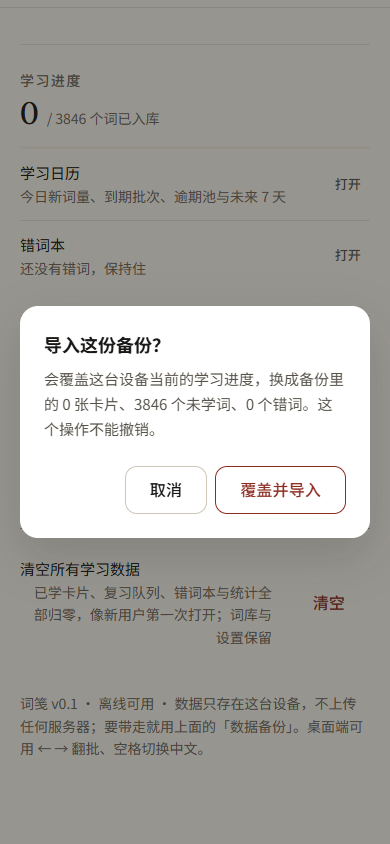
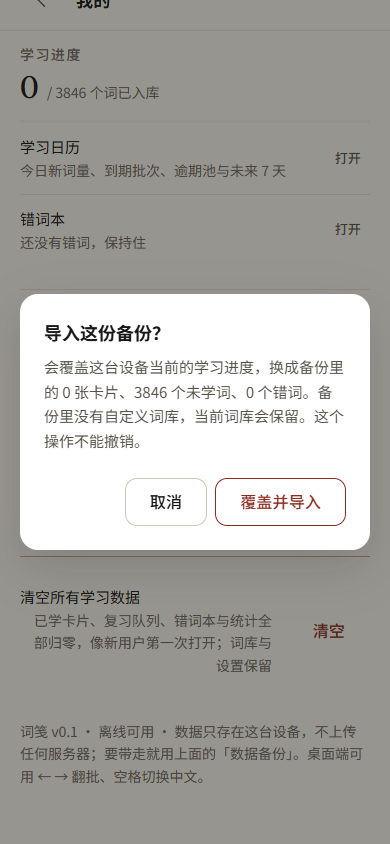
feat(backup): 备份带上自定义词库（custom 与 profile 同键，之前被丢掉了）
- 查清存储位置：custom 就在 cijian.v1 里（Store.custom），和 profile 同键不同字段；
  379c7f6 只取了 profile，等于导出了半份备份
- schema：BackupPayload 加可选 custom 字段，**version 不 bump**——旧 v1 备份没有该字段，
  读取按 null 处理，向后兼容；导入语义写死三条：备份有/本机没有 → 写入；
  本机有/备份没有 → 保留本机不删；两边都有 → 用备份覆盖
- 校验：custom 结构进 validateBackupText（对象 / 词表非空 / 每条 w、ph、m），坏结构原子拒绝
- 确认框按「备份里有没有词库」分两句文案；导出提示带自定义词数
- 体积实测：200 词词库的备份约 41 KB（含调度数据），不设上限

证据：
- test:backup 49 条断言全过（新增 14 条：导出带上、7 种坏结构、3 种导入语义、体积）
- tsc 0 错、test:scheduler 全过、vite build 过
- E2E：导出含 2 词词库（文件 67.9 KB）→ 确认框写明自定义词库 → 先删掉本机词库再导入，
  label/词数都恢复、groups 7→0、导入闸门已清、双键 SHA256 一致
- UI 390/paper 复查：值文案收成单行 + 一句说明，按钮 62×44 / 91×44、对比度 4.99、无横向滚动

diff --git a/scripts/audit-backup.js b/scripts/audit-backup.js
@@ -41,7 +41,28 @@ async (page) => {
     const hasSection = await page.evaluate(() => [...document.querySelectorAll('.section__title')].some((n) => n.textContent.trim() === '数据备份'));
     if (!hasSection) problems.push('「我的」页没有「数据备份」区块');
 
-    // ---- 2. 导出并校验下载内容 ----
+    // ---- 2. 先塞一份自定义词库，验证「词库也进备份」 ----
+    // 写在同源非 App 页（App 页 pagehide 会用内存态回写）
+    await page.goto(BASE + '/icon.svg', { waitUntil: 'domcontentloaded' });
+    await page.evaluate(() => {
+      const raw = JSON.parse(localStorage.getItem('cijian.v1') || '{}');
+      raw.custom = {
+        lvl: 'custom',
+        label: '我的专业词',
+        words: [
+          { w: 'alpha', ph: '/ˈælfə/', m: ['n. 阿尔法'] },
+          { w: 'beta', ph: '/ˈbiːtə/', m: ['n. 贝塔'] },
+        ],
+      };
+      localStorage.setItem('cijian.v1', JSON.stringify(raw));
+    });
+    await page.goto(BASE + '/', { waitUntil: 'domcontentloaded' });
+    await page.waitForSelector('button[aria-label="打开我的"]', { timeout: 15000 });
+    await page.click('button[aria-label="打开我的"]');
+    await page.waitForSelector('.section__title', { timeout: 10000 });
+    await page.waitForTimeout(300);
+
+    // ---- 3. 导出并校验下载内容 ----
     const [download] = await Promise.all([
       page.waitForEvent('download', { timeout: 15000 }),
       page.getByRole('button', { name: '导出', exact: true }).click(),
@@ -55,6 +76,9 @@ async (page) => {
       app: exported.app,
       hasScheduler: Boolean(exported.scheduler && exported.scheduler.cards),
       hasProfile: Boolean(exported.profile && typeof exported.profile.skin === 'string'),
+      customWords: Array.isArray(exported.custom?.words) ? exported.custom.words.length : 0,
+      customLabel: exported.custom?.label ?? null,
+      bytes: Buffer.byteLength(exportedText, 'utf8'),
       cards: Object.keys(exported.scheduler?.cards ?? {}).length,
       unlearned: (exported.scheduler?.unlearned ?? []).length,
       filename: download.suggestedFilename(),
@@ -63,19 +87,23 @@ async (page) => {
     if (exportChecks.app !== 'cijian') problems.push(`导出 app=${exportChecks.app}`);
     if (!exportChecks.hasScheduler) problems.push('导出里没有 scheduler');
     if (!exportChecks.hasProfile) problems.push('导出里没有 profile');
+    if (exportChecks.customWords !== 2) problems.push(`导出里自定义词库有 ${exportChecks.customWords} 个词，期望 2`);
     if (!/^cijian-backup-\d{4}-\d{2}-\d{2}\.json$/.test(exportChecks.filename)) problems.push(`文件名异常：${exportChecks.filename}`);
     const noteText = await page.evaluate(() => document.querySelector('[role="status"]')?.textContent?.trim() ?? null);
     if (!noteText || !noteText.includes('已导出')) problems.push('导出后没有成功提示');
+    if (noteText && !noteText.includes('自定义词')) problems.push('导出提示没提到自定义词');
 
-    // ---- 3. 改成本地另一份状态，为「覆盖是否真的发生」做对照 ----
+    // ---- 4. 改成本地另一份状态（并删掉词库），为「覆盖是否真的发生」做对照 ----
     // 注意：unlearned 每次启动都会被 seed() 重置，不能当对照；用 immediate.stats.groups。
-    // 必须先在**同源非 App 页**写 storage：App 页 pagehide 会拿内存态回写，直接写在刷新瞬间会被盖掉。
     await page.goto(BASE + '/icon.svg', { waitUntil: 'domcontentloaded' });
     await page.evaluate(() => {
       const raw = JSON.parse(localStorage.getItem('cijian.scheduler.v1') || '{}');
       raw.immediate = raw.immediate || { pendingCount: 0, pendingWords: [], active: null, stats: { groups: 0, cards: 0, loops: 0, skipped: 0 }, lastAvgLoops: null };
       raw.immediate.stats.groups = 7;
       localStorage.setItem('cijian.scheduler.v1', JSON.stringify(raw));
+      const store = JSON.parse(localStorage.getItem('cijian.v1') || '{}');
+      delete store.custom;
+      localStorage.setItem('cijian.v1', JSON.stringify(store));
     });
     await page.goto(BASE + '/', { waitUntil: 'domcontentloaded' });
     await page.waitForSelector('button[aria-label="打开我的"]', { timeout: 15000 });
@@ -107,6 +135,7 @@ async (page) => {
     const dialogText = await page.evaluate(() => document.querySelector('.dialog')?.textContent ?? '');
     const schedulerWhileDialog = await page.evaluate(() => localStorage.getItem('cijian.scheduler.v1'));
     if (!dialogText.includes('覆盖')) problems.push('确认框没说要覆盖');
+    if (!dialogText.includes('自定义词库')) problems.push('确认框没交代自定义词库的处置');
     if (schedulerWhileDialog !== schedulerBeforeGood) problems.push('确认前就写了数据（破坏性操作必须后写）');
 
     await Promise.all([
@@ -117,10 +146,18 @@ async (page) => {
     const afterImport = await page.evaluate(() => {
       const s = JSON.parse(localStorage.getItem('cijian.scheduler.v1') || '{}');
       const p = JSON.parse(localStorage.getItem('cijian.v1') || '{}');
-      return { groups: s.immediate?.stats?.groups ?? null, skin: p.profile?.skin ?? null, importingFlag: localStorage.getItem('cijian.importing') };
+      return {
+        groups: s.immediate?.stats?.groups ?? null,
+        skin: p.profile?.skin ?? null,
+        customLabel: p.custom?.label ?? null,
+        customWords: Array.isArray(p.custom?.words) ? p.custom.words.length : 0,
+        importingFlag: localStorage.getItem('cijian.importing'),
+      };
     });
     if (afterImport.groups !== 0) problems.push(`导入后 stats.groups=${afterImport.groups}，期望 0（备份里的值）`);
     if (afterImport.importingFlag !== null) problems.push('导入闸门标记没被清掉（之后会一直不落盘）');
+    if (afterImport.customLabel !== exportChecks.customLabel) problems.push(`导入后词库=${afterImport.customLabel}，期望 ${exportChecks.customLabel}`);
+    if (afterImport.customWords !== 2) problems.push(`导入后词库有 ${afterImport.customWords} 个词，期望 2`);
 
     // ---- 6. 还原 + 校验 ----
     await restore();

diff --git a/src/lib/backup.ts b/src/lib/backup.ts
@@ -26,13 +26,18 @@ export interface BackupStorage {
 }
 
 export interface BackupPayload {
-  /** 备份格式版本；只有 1 能被导入 */
+  /** 备份格式版本；只有 1 能被导入（custom 是可选字段，所以不 bump） */
   version: number;
   /** 固定 'cijian'，防止把别的 JSON 当备份导进来 */
   app: string;
   exportedAt: string;
   /** 只带 profile（外观 / 阶段 / 每批词数），不带 session 等临时状态 */
   profile: Record<string, unknown> | null;
+  /**
+   * 自定义词库（`cijian.v1` 里的 `custom`，与 profile 同键不同字段）。
+   * v1 早期备份没有这个字段；读取时缺失按 null 处理（导入时保留本机现有词库，不删）。
+   */
+  custom: Record<string, unknown> | null;
   /** cijian.scheduler.v1 的原始对象 */
   scheduler: Record<string, unknown>;
 }
@@ -74,11 +79,13 @@ export function buildBackup(storage: BackupStorage, now = new Date()): BackupPay
   if (!scheduler) throw new Error('这台设备还没有可导出的学习数据');
   const store = parseRecord(storage.getItem(STORE_KEY));
   const profile = store && isRecord(store.profile) ? store.profile : null;
+  const custom = store && isRecord(store.custom) ? store.custom : null;
   return {
     version: BACKUP_VERSION,
     app: BACKUP_APP,
     exportedAt: now.toISOString(),
     profile,
+    custom,
     scheduler,
   };
 }
@@ -135,6 +142,13 @@ export function validateBackupText(text: string): BackupResult {
     profile = parsed.profile;
   }
 
+  let custom: Record<string, unknown> | null = null;
+  if (parsed.custom !== undefined && parsed.custom !== null) {
+    const checked = validateCustom(parsed.custom);
+    if (!checked.ok) return { ok: false, reason: checked.reason };
+    custom = checked.value;
+  }
+
   return {
     ok: true,
     data: {
@@ -142,15 +156,39 @@ export function validateBackupText(text: string): BackupResult {
       app: BACKUP_APP,
       exportedAt: typeof parsed.exportedAt === 'string' ? parsed.exportedAt : '',
       profile,
+      custom,
       scheduler,
     },
   };
+}
+
+/**
+ * 自定义词库的结构校验（与 `lib/storage.ts` 的 sanitizeCustom 同一口径）：
+ * 坏结构整份拒绝，不做半份修复——导入是破坏性操作，宁可让人重导一次。
+ */
+function validateCustom(value: unknown): { ok: true; value: Record<string, unknown> } | { ok: false; reason: string } {
+  if (!isRecord(value)) return { ok: false, reason: '备份里的自定义词库不是对象' };
+  const words = value.words;
+  if (!Array.isArray(words)) return { ok: false, reason: '备份里的自定义词库缺少词表' };
+  if (words.length === 0) return { ok: false, reason: '备份里的自定义词库是空的' };
+  for (const item of words) {
+    if (!isRecord(item)) return { ok: false, reason: '备份里的自定义词库有坏词条' };
+    if (typeof item.w !== 'string' || !item.w) return { ok: false, reason: '备份里的自定义词库有词条缺单词' };
+    if (typeof item.ph !== 'string') return { ok: false, reason: '备份里的自定义词库有词条缺音标字段' };
+    if (!Array.isArray(item.m) || item.m.length === 0) return { ok: false, reason: '备份里的自定义词库有词条缺释义' };
+    if (!item.m.every((sense) => typeof sense === 'string' && sense.length > 0)) {
+      return { ok: false, reason: '备份里的自定义词库有释义不是文字' };
+    }
+  }
+  return { ok: true, value };
 }
 
 export interface BackupSummary {
   cards: number;
   unlearned: number;
   mistakes: number;
+  /** 备份里自定义词库的词数（0 = 没带词库） */
+  customWords: number;
 }
 
 /* ---------------------------------------------------------------- 导入时的落盘闸门 */
@@ -189,10 +227,12 @@ export function clearImporting(storage: Storage = localStorage): void {
 /** 导前给人看的摘要（二次确认里显示，让用户知道会覆盖成什么样）。 */
 export function summarizeBackup(payload: BackupPayload): BackupSummary {
   const scheduler = payload.scheduler;
+  const customWords = payload.custom && Array.isArray(payload.custom.words) ? payload.custom.words.length : 0;
   return {
     cards: isRecord(scheduler.cards) ? Object.keys(scheduler.cards).length : 0,
     unlearned: Array.isArray(scheduler.unlearned) ? scheduler.unlearned.length : 0,
     mistakes: isRecord(scheduler.mistakes) ? Object.keys(scheduler.mistakes).length : 0,
+    customWords,
   };
 }
 
@@ -215,13 +255,19 @@ export function applyBackup(payload: BackupPayload, storage: BackupStorage): voi
     for (const field of ['name', 'batchSize', 'meaningMode', 'theme', 'skin'] as const) {
       if (incoming[field] !== undefined) nextProfile[field] = incoming[field];
     }
-    const hasCustom = store.custom !== null && store.custom !== undefined;
+    const hasCustom = payload.custom !== null || (store.custom !== null && store.custom !== undefined);
     const incomingStage = incoming.stage;
     if (typeof incomingStage === 'string' && (incomingStage !== 'custom' || hasCustom)) {
       nextProfile.stage = incomingStage;
     }
     merged.profile = nextProfile;
   }
+
+  // 自定义词库的导入语义（写死）：
+  // - 备份有、本机没有 → 写入
+  // - 本机有、备份没有 → 保留本机，不删
+  // - 两边都有 → 用备份覆盖
+  if (payload.custom) merged.custom = payload.custom;
 
   const storeText = JSON.stringify(merged);
   const beforeScheduler = storage.getItem(SCHEDULER_KEY);

diff --git a/scripts/test-backup.ts b/scripts/test-backup.ts
@@ -106,7 +106,7 @@ eq('文件名带日期', backupFileName(new Date(2026, 10, 26)), 'cijian-backup-
   if (result.ok) {
     eq('往返后调度数据一致', result.data.scheduler, scheduler);
     eq('往返后 profile 一致', result.data.profile?.skin, 'bento');
-    eq('摘要卡片数', summarizeBackup(result.data), { cards: 1, unlearned: 2, mistakes: 1 });
+    eq('摘要卡片数', summarizeBackup(result.data), { cards: 1, unlearned: 2, mistakes: 1, customWords: 0 });
   }
 }
 
@@ -193,6 +193,96 @@ eq('profile 不是对象', reasonOf(JSON.stringify({ version: 1, app: 'cijian', 
   const storage = memoryStorage({ [STORE_KEY]: JSON.stringify(store) });
   applyBackup(result.data, storage);
   eq('没有 profile 时偏好键原样', JSON.parse(storage.data[STORE_KEY]).profile.name, '小夏');
+}
+
+// 11. 自定义词库：导出带上、坏结构拒绝、三种导入语义
+{
+  const customBook = {
+    lvl: 'custom',
+    label: '我的专业词',
+    words: [
+      { w: 'alpha', ph: '/ˈælfə/', m: ['n. 阿尔法'] },
+      { w: 'beta', ph: '/ˈbiːtə/', m: ['n. 贝塔'] },
+    ],
+  };
+  const withCustom = memoryStorage({
+    [SCHEDULER_KEY]: JSON.stringify(scheduler),
+    [STORE_KEY]: JSON.stringify({ ...store, custom: customBook }),
+  });
+  const payload = buildBackup(withCustom);
+  eq('导出带自定义词库', payload.custom?.label, '我的专业词');
+  eq('摘要给出词库词数', summarizeBackup(payload).customWords, 2);
+
+  const noCustom = memoryStorage({ [SCHEDULER_KEY]: JSON.stringify(scheduler), [STORE_KEY]: JSON.stringify(store) });
+  eq('没有词库时 custom 为空', buildBackup(noCustom).custom, null);
+}
+
+// 12. 坏自定义词库：原子拒绝
+{
+  const make = (custom: unknown) => JSON.stringify({ version: 1, app: 'cijian', scheduler, custom });
+  const reason = (custom: unknown) => {
+    const result = validateBackupText(make(custom));
+    return result.ok ? 'OK（不该通过）' : result.reason;
+  };
+  eq('词库不是对象', reason('x'), '备份里的自定义词库不是对象');
+  eq('词库缺词表', reason({ lvl: 'custom' }), '备份里的自定义词库缺少词表');
+  eq('词库是空的', reason({ words: [] }), '备份里的自定义词库是空的');
+  eq('词条不是对象', reason({ words: ['x'] }), '备份里的自定义词库有坏词条');
+  eq('词条缺单词', reason({ words: [{ ph: '', m: ['x'] }] }), '备份里的自定义词库有词条缺单词');
+  eq('词条缺释义', reason({ words: [{ w: 'a', ph: '', m: [] }] }), '备份里的自定义词库有词条缺释义');
+  eq('释义不是文字', reason({ words: [{ w: 'a', ph: '', m: [1] }] }), '备份里的自定义词库有释义不是文字');
+}
+
+// 13. 导入语义：备份有→写入；备份无→保留；两边都有→备份覆盖
+{
+  const backupWithCustom = validateBackupText(
+    serializeBackup(
+      buildBackup(
+        memoryStorage({
+          [SCHEDULER_KEY]: JSON.stringify(scheduler),
+          [STORE_KEY]: JSON.stringify({ ...store, custom: { lvl: 'custom', label: '备份词库', words: [{ w: 'z', ph: '', m: ['n. 备份'] }] } }),
+        }),
+      ),
+    ),
+  );
+  if (!backupWithCustom.ok) throw new Error('夹具本身不合法');
+
+  // 13a 备份有、本机没有 → 写入
+  const empty = memoryStorage({ [STORE_KEY]: JSON.stringify({ ...store, custom: null }) });
+  applyBackup(backupWithCustom.data, empty);
+  eq('备份有词库就写入', JSON.parse(empty.data[STORE_KEY]).custom.label, '备份词库');
+
+  // 13b 本机有、备份没有 → 保留本机
+  const backupNoCustom = validateBackupText(
+    serializeBackup(buildBackup(memoryStorage({ [SCHEDULER_KEY]: JSON.stringify(scheduler), [STORE_KEY]: JSON.stringify(store) }))),
+  );
+  if (!backupNoCustom.ok) throw new Error('夹具本身不合法');
+  const keep = memoryStorage({
+    [STORE_KEY]: JSON.stringify({ ...store, custom: { lvl: 'custom', label: '本机词库', words: [{ w: 'q', ph: '', m: ['n. 本机'] }] } }),
+  });
+  applyBackup(backupNoCustom.data, keep);
+  eq('备份没有词库就保留本机', JSON.parse(keep.data[STORE_KEY]).custom.label, '本机词库');
+
+  // 13c 两边都有 → 备份覆盖
+  const both = memoryStorage({
+    [STORE_KEY]: JSON.stringify({ ...store, custom: { lvl: 'custom', label: '本机词库', words: [{ w: 'q', ph: '', m: ['n. 本机'] }] } }),
+  });
+  applyBackup(backupWithCustom.data, both);
+  eq('两边都有时用备份覆盖', JSON.parse(both.data[STORE_KEY]).custom.label, '备份词库');
+}
+
+// 14. 体积：200 词的词库大概多大（只报告，不设上限）
+{
+  const words = Array.from({ length: 200 }, (_, i) => ({
+    w: `specialword${i}`,
+    ph: '/ˈspesɪmən/',
+    m: ['n. 一个用来占位的专业术语', 'v. 举例说明这个词条会有多长'],
+  }));
+  const bigStore = { ...store, custom: { lvl: 'custom', label: '我的专业词', words } };
+  const payload = buildBackup(memoryStorage({ [SCHEDULER_KEY]: JSON.stringify(scheduler), [STORE_KEY]: JSON.stringify(bigStore) }));
+  const bytes = Buffer.byteLength(serializeBackup(payload), 'utf8');
+  console.log(`· 200 词自定义词库的备份约 ${(bytes / 1024).toFixed(1)} KB（含调度数据）`);
+  check('200 词备份在几十 KB 量级', bytes > 10 * 1024 && bytes < 200 * 1024, bytes);
 }
 
 console.log(failures === 0 ? '\n全部通过' : `\n${failures} 项失败`);

diff --git a/src/components/ProfileScreen.tsx b/src/components/ProfileScreen.tsx
@@ -98,7 +98,9 @@ export function ProfileScreen({
       link.remove();
       URL.revokeObjectURL(url);
       const summary = summarizeBackup(payload);
-      setBackupNote(`已导出 ${name}（${summary.cards} 张卡片、${summary.unlearned} 个未学词）`);
+      setBackupNote(
+        `已导出 ${name}（${summary.cards} 张卡片、${summary.unlearned} 个未学词${summary.customWords > 0 ? `、${summary.customWords} 个自定义词` : ''}）`,
+      );
     } catch (error) {
       setBackupError(error instanceof Error ? error.message : '导出失败');
     }
@@ -450,7 +452,7 @@ export function ProfileScreen({
             <div className="setting-row">
               <div>
                 <div className="setting-row__label">导出进度</div>
-                <div className="setting-row__value">下载 JSON：卡片、队列、错词本与外观</div>
+                <div className="setting-row__value">下载一个 JSON 备份文件</div>
               </div>
               <button type="button" className="btn btn--secondary btn--compact" onClick={exportProgress}>
                 导出
@@ -479,6 +481,9 @@ export function ProfileScreen({
                 aria-label="选择备份文件"
               />
             </div>
+            <p className="section__hint">
+              备份包含学习卡片、复习队列、错词本、自定义词库与外观设置；换设备导入即可接着背。
+            </p>
             {backupError ? (
               <p className="section__hint section__hint--error" role="alert">
                 <IconAlert size={16} />
@@ -515,7 +520,11 @@ export function ProfileScreen({
       {pendingImport ? (
         <ConfirmDialog
           title="导入这份备份？"
-          text={`会覆盖这台设备当前的学习进度，换成备份里的 ${pendingImport.summary.cards} 张卡片、${pendingImport.summary.unlearned} 个未学词、${pendingImport.summary.mistakes} 个错词。这个操作不能撤销。`}
+          text={`会覆盖这台设备当前的学习进度，换成备份里的 ${pendingImport.summary.cards} 张卡片、${pendingImport.summary.unlearned} 个未学词、${pendingImport.summary.mistakes} 个错词。${
+            pendingImport.summary.customWords > 0
+              ? `备份里还带 ${pendingImport.summary.customWords} 个词的自定义词库，会一并覆盖当前词库。`
+              : '备份里没有自定义词库，当前词库会保留。'
+          }这个操作不能撤销。`}
           confirmLabel="覆盖并导入"
           onConfirm={confirmImport}
           onCancel={() => setPendingImport(null)}
